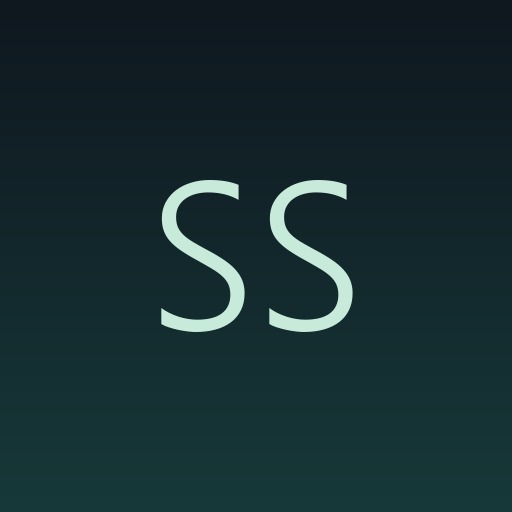
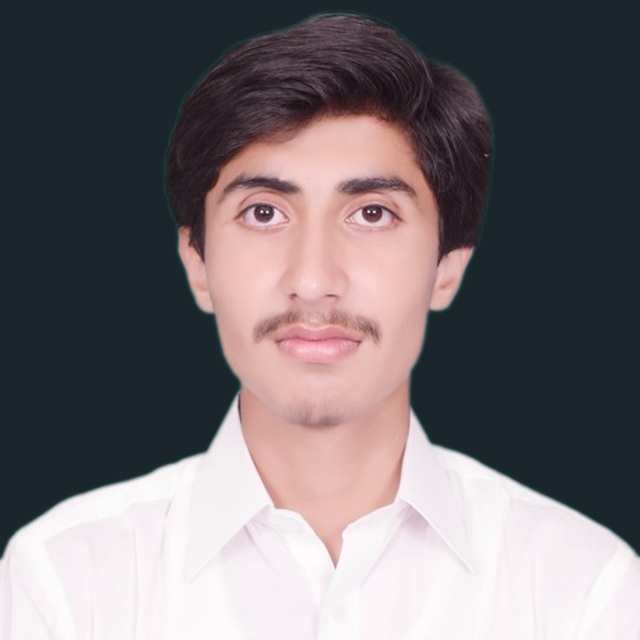
Add portrait, hero backgrounds and a figures strip
- avatar.jpg is now an actual portrait, processed from the photo on the
  machine: the flat blue ID backdrop keyed out to the site's slate, blue
  spill pulled off the hair edges, squared and cropped to head and shoulders.
- Each track gets a hero card with a faded background drawn from its own
  subject matter rather than stock imagery: a volatility series with crisis
  windows for research, a cash bridge for finance.
- TrackStats puts four figures under each hero. Every one is checkable
  against something else on the site; none are vanity metrics.

diff --git a/src/components/TrackHome.tsx b/src/components/TrackHome.tsx
@@ -12,6 +12,7 @@ import {
 import { about, baseURL, person, tracks } from "@/resources";
 import { Projects } from "@/components/work/Projects";
 import { TrackSwitcher } from "@/components/TrackSwitcher";
+import { TrackStats } from "@/components/TrackStats";
 
 /**
  * Shared layout for the two track landing pages (/finance and /research).
@@ -35,7 +36,19 @@ export function TrackHome({ track }: { track: "finance" | "research" }) {
           image: `${baseURL}${person.avatar}`,
         }}
       />
-      <Column fillWidth horizontal="center" gap="m">
+      <Column
+        fillWidth
+        horizontal="center"
+        gap="m"
+        paddingY="32"
+        radius="l"
+        border="neutral-alpha-weak"
+        style={{
+          backgroundImage: `linear-gradient(to bottom, rgba(11,20,24,0.55), rgba(11,20,24,0.88)), url(${t.hero})`,
+          backgroundSize: "cover",
+          backgroundPosition: "center",
+        }}
+      >
         <RevealFx fillWidth horizontal="center" paddingTop="8" paddingBottom="24">
           <TrackSwitcher active={track} />
         </RevealFx>
@@ -96,6 +109,9 @@ export function TrackHome({ track }: { track: "finance" | "research" }) {
           </RevealFx>
         </Column>
       </Column>
+      <RevealFx fillWidth translateY="12" delay={0.5}>
+        <TrackStats stats={t.stats} />
+      </RevealFx>
       <RevealFx translateY="16" delay={0.6}>
         <Projects track={track} range={[1, 1]} />
       </RevealFx>

diff --git a/src/resources/content.tsx b/src/resources/content.tsx
@@ -69,6 +69,13 @@ const tracks = {
       ),
       href: "/work/month-end-fpa-pipeline",
     },
+    hero: "/images/hero-finance.jpg",
+    stats: [
+      { value: "3 yrs", label: "finance operations: payroll, reporting, reconciliation, AP" },
+      { value: "4", label: "FP&A apps live on Streamlit Community Cloud" },
+      { value: "6", label: "finance projects published, all tested" },
+      { value: "10+", label: "visa applicants' financials reviewed (freelance)" },
+    ],
     subline: (
       <>
         I'm {person.firstName}, a finance professional in Dublin finishing an{" "}
@@ -101,6 +108,13 @@ const tracks = {
       ),
       href: "/work/crisis-volatility-lstm-shap",
     },
+    hero: "/images/hero-research.jpg",
+    stats: [
+      { value: "5,243", label: "trading days analysed, Jan 2003 to Aug 2023" },
+      { value: "3", label: "models benchmarked: LSTM, GARCH, HAR" },
+      { value: "4", label: "crisis windows compared by origin" },
+      { value: "1,547", label: "days attributed with SHAP, across 5 seeds" },
+    ],
     subline: (
       <>
         I'm {person.firstName}, an{" "}

diff --git a/src/components/TrackStats.tsx b/src/components/TrackStats.tsx
@@ -1,0 +1,31 @@
+import { Column, Heading, Row, Text } from "@once-ui-system/core";
+
+type Stat = { value: string; label: string };
+
+/**
+ * The figures strip under the hero. Four numbers, each one checkable against
+ * something on the site — no vanity metrics.
+ */
+export function TrackStats({ stats }: { stats: readonly Stat[] }) {
+  return (
+    <Row
+      fillWidth
+      gap="24"
+      paddingX="l"
+      paddingY="24"
+      s={{ direction: "column" }}
+      horizontal="center"
+    >
+      {stats.map((stat) => (
+        <Column key={stat.label} flex={1} gap="4">
+          <Heading variant="display-strong-xs" onBackground="neutral-strong">
+            {stat.value}
+          </Heading>
+          <Text variant="body-default-s" onBackground="neutral-weak" wrap="balance">
+            {stat.label}
+          </Text>
+        </Column>
+      ))}
+    </Row>
+  );
+}
